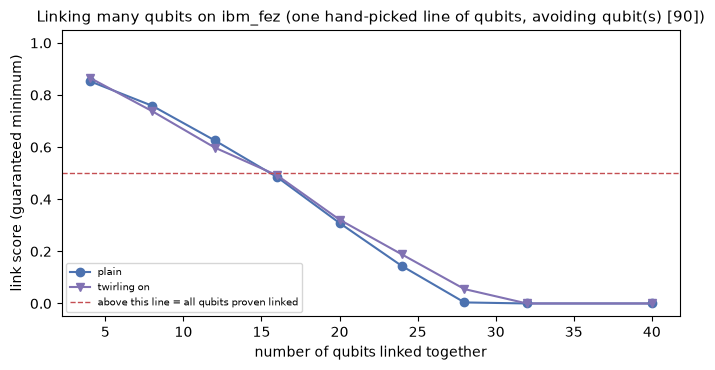
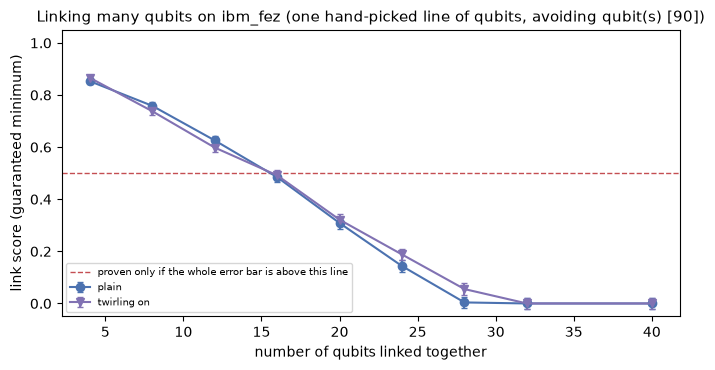
Lesson 7: same-qubit pairs, fit-aware sweep bound, one proof rule (ChatGPT review)
Run 1's 16/20/28-qubit pairs ran straight and sideways on different qubits (now
flagged NOT VALID from the job itself); 12-qubit proof stands. Phase-sweep bound
now accounts for the fitted phase (13% -> ~2% false proofs in simulation); the
16-qubit result survives at a 53.4% lower bound.

Changed region(s): [[0.0923, 0.7135, 0.4923, 0.8324]]

diff --git a/lessons/07_linking_many/ghz.py b/lessons/07_linking_many/ghz.py
@@ -92,7 +92,21 @@ def score_wobble(straight: dict, sideways: dict, n: int) -> float:
     return math.sqrt((a * (1 - a) + (1 - e * e) / 4) / shots)
 
 
-def analyze(counts: list[dict], sizes, label: str) -> list[float]:
+def is_proven(score: float, wobble: float) -> bool:
+    """The one proof rule used everywhere: above 50% by more than 2 chance wobbles."""
+    return score - 2 * wobble > 0.5
+
+
+def measured_qubits(circuit) -> tuple:
+    """Which physical qubit each classical bit was read from, in bit order."""
+    pairs = sorted((circuit.find_bit(i.clbits[0]).index, circuit.find_bit(i.qubits[0]).index)
+                   for i in circuit.data if i.operation.name == "measure")
+    return tuple(q for _, q in pairs)
+
+
+def analyze(counts: list[dict], sizes, label: str, invalid=frozenset()):
+    """Print and return (scores, wobbles). Sizes in `invalid` ran their straight and sideways
+    halves on different qubits, so they can't prove anything and are left out of the proof."""
     out, wob = [], []
     print(f"  {label}:")
     print("     qubits:          " + "".join(f"{n:>7d}" for n in sizes))
@@ -107,11 +121,12 @@ def analyze(counts: list[dict], sizes, label: str) -> list[float]:
     print("     sideways even-odd:" + "".join(f"{v:7.2f}" for v in eo))
     print("     link score:      " + "".join(f"{v:7.1%}" for v in out))
     print("     chance wobble ±: " + "".join(f"{v:7.1%}" for v in wob))
-    # "Proven" = above 50% by more than 2 wobbles, so chance alone would almost never do it.
-    proven = [n for n, s, w in zip(sizes, out, wob) if s - 2 * w > 0.5]
+    if invalid:
+        print(f"     NOT VALID (straight and sideways ran on different qubits): sizes {sorted(invalid)}")
+    proven = [n for n, s, w in zip(sizes, out, wob) if is_proven(s, w) and n not in invalid]
     print(f"     largest group proven linked (score above 50% by more than 2 wobbles): "
-          f"{max(proven) if proven else 'none'} qubits")
-    return out
+          f"{str(max(proven)) + ' qubits' if proven else 'none'}")
+    return out, wob
 
 
 def save_chart(series: dict, title: str, path: Path) -> None:
@@ -122,12 +137,13 @@ def save_chart(series: dict, title: str, path: Path) -> None:
     fig, ax = plt.subplots(figsize=(7, 3.8))
     styles = {"perfect simulator": ("#999999", "--", "none"), "noisy simulator": ("#55a868", "-", "^"),
               "plain": ("#4c72b0", "-", "o"), "twirling on": ("#8172b3", "-", "v")}
-    for name, (sizes, ys) in series.items():
+    for name, (sizes, ys, wobs) in series.items():
         color, ls, marker = styles.get(name, ("#dd8452", "-", "o"))
         ys = [max(y, 0.0) for y in ys]  # below 0 just means "proves nothing"; show as 0
-        ax.plot(sizes, ys, color=color, linestyle=ls, marker=marker, label=name)
+        ax.errorbar(sizes, ys, yerr=[2 * w for w in wobs], color=color, linestyle=ls,
+                    marker=marker, capsize=2, label=name)
     ax.axhline(0.5, color="#c44e52", linewidth=1, linestyle="--",
-               label="above this line = all qubits proven linked")
+               label="proven only if the whole error bar is above this line")
     ax.set_xlabel("number of qubits linked together")
     ax.set_ylabel("link score (guaranteed minimum)")
     ax.set_ylim(-0.05, 1.05)
@@ -163,9 +179,9 @@ def simulate() -> int:
     noisy = [res.get_counts(i) for i in range(len(isa))]
 
     print(f"Simulators, {SHOTS} shots each:")
-    ideal = analyze(perfect, SIZES, "perfect simulator")
-    rough = analyze(noisy, SIM_SIZES, "noisy simulator (copies ibm_marrakesh's published error rates)")
-    save_chart({"perfect simulator": (SIZES, ideal), "noisy simulator": (SIM_SIZES, rough)},
+    ideal, ideal_w = analyze(perfect, SIZES, "perfect simulator")
+    rough, rough_w = analyze(noisy, SIM_SIZES, "noisy simulator (copies ibm_marrakesh's published error rates)")
+    save_chart({"perfect simulator": (SIZES, ideal, ideal_w), "noisy simulator": (SIM_SIZES, rough, rough_w)},
                "Linking many qubits, on the simulators", HERE / "simulator_results.png")
 
     ok = (all(math.isclose(s, 1.0) for s in ideal)  # the circuit is right at every size
@@ -232,7 +248,18 @@ def submit_to_ibm(chain: bool, avoid=(), sizes=None, variants=("plain", "twirl")
     else:
         line = None
         pm = generate_preset_pass_manager(backend=backend, optimization_level=2)
-        isa = [pm.run(qc) for qc in circs]
+        isa = []
+        for straight, sideways in zip(circs[::2], circs[1::2]):
+            # Pin the sideways half to the straight half's qubits: the two halves only make a
+            # valid test together if they measure the same physical qubits.
+            st = pm.run(straight)
+            same = generate_preset_pass_manager(
+                backend=backend, optimization_level=2,
+                initial_layout=st.layout.initial_index_layout(filter_ancillas=True))
+            sw = same.run(sideways)
+            if set(measured_qubits(st)) != set(measured_qubits(sw)):
+                raise SystemExit(f"{straight.name}: straight and sideways landed on different qubits")
+            isa += [st, sw]
     for qc, c in zip(circs[::2], isa[::2]):
         two_q = sum(v for op, v in c.count_ops().items() if op in ("cz", "ecr", "cx"))
         print(f"  {qc.name:16s} {two_q:3d} two-qubit gates, depth {c.depth()}")
@@ -269,7 +296,11 @@ def fetch_jobs() -> int:
             print(f"The {key} job is {status}. Try again later.")
             return 0 if status not in ("ERROR", "CANCELLED") else 1
         counts = [r.data.c.get_counts() for r in job.result()]
-        results[label] = analyze(counts, sizes, label)
+        # Check from the job itself that each straight/sideways pair read the same qubits.
+        ran = [item.circuit for item in job.inputs["quantum_program"].items]
+        invalid = {n for i, n in enumerate(sizes)
+                   if set(measured_qubits(ran[2 * i])) != set(measured_qubits(ran[2 * i + 1]))}
+        results[label] = analyze(counts, sizes, label, invalid) + (invalid,)
     how = "one hand-picked line of qubits" if info.get("chain") else "qubits picked per size"
     print(f"(on {info['backend']}, {how}, {SHOTS} shots each)")
     name = ("hardware_chain_repeat_results.png" if info.get("chain") and "plain" not in info else
@@ -277,12 +308,18 @@ def fetch_jobs() -> int:
             "hardware_chain_results.png" if info.get("chain") else "hardware_results.png")
     if info.get("avoid"):
         how += f", avoiding qubit(s) {info['avoid']}"
-    save_chart({k: (sizes, v) for k, v in results.items()},
+    save_chart({k: (sizes, v[0], v[1]) for k, v in results.items()},
                f"Linking many qubits on {info['backend']} ({how})", HERE / name)
 
-    best = max(results.values(), key=lambda v: sum(s > 0.5 for s in v))
-    ok = best[0] > 0.5 and best[-1] < best[0]  # small groups link; bigger groups are harder
-    print(f"  need: the smallest group ({sizes[0]} qubits) scores above 50%, and the score falls as the group grows")
+    def proven_count(v):
+        scores, wobs, invalid = v
+        return sum(is_proven(s, w) and n not in invalid for n, s, w in zip(sizes, scores, wobs))
+
+    scores, wobs, invalid = max(results.values(), key=proven_count)
+    ok = (is_proven(scores[0], wobs[0]) and sizes[0] not in invalid  # smallest group proven
+          and scores[-1] < scores[0])                                 # bigger groups are harder
+    print(f"  need: the smallest group ({sizes[0]} qubits) proven linked (same rule as above), "
+          "and the score falls as the group grows")
     print("CHECK PASSED" if ok else "CHECK FAILED")
     return 0 if ok else 1
 

diff --git a/lessons/07_linking_many/parity_sweep.py b/lessons/07_linking_many/parity_sweep.py
@@ -10,7 +10,7 @@ to the nearest GHZ state, allowing any phase twist between all-0s and all-1s) of
     all-agree share.
 
   link quality = (all-agree share) / 2 + (size of the n-times wiggle) / 2
-  Above 50% (by more than 2 chance wobbles) proves all n qubits are linked as one group.
+  Proven when its cautious lower bound (see quality()) is above 50%.
 
     python lessons/07_linking_many/parity_sweep.py            # simulator check
     python lessons/07_linking_many/parity_sweep.py --ibm      # sizes 16 and 20, about 50 s
@@ -76,11 +76,17 @@ def quality(counts: list[dict], sizes) -> list[dict]:
         # The n-times wiggle's size: the matching "frequency component" of the sweep.
         wiggle = abs(sum(p * cmath.exp(-1j * n * phi) for p, phi in zip(parities, phis)) / len(phis))
         shots = sum(counts[i - 1].values())
-        # Chance wobble (one standard error) of the quality, from the shot counts.
-        wob = math.sqrt(a * (1 - a) / shots / 4
-                        + sum(1 - p * p for p in parities) / len(parities) / (2 * len(phis) * shots))
+        # A cautious lower bound. The wiggle's size is *fitted* (we pick the best-matching phase),
+        # so noise alone always produces some wiggle and a plain "estimate minus 2 wobbles" rule
+        # is too generous: in simulation it called an unlinked state "proven" about 13% of the
+        # time. Instead: take 2 wobbles off the all-agree share, and take 2 (generous) wobbles
+        # off the wiggle size, using a wobble that ignores how the angles share out the noise.
+        # In simulation this falsely proves an unlinked state at most about 2% of the time.
+        sd_a = math.sqrt(a * (1 - a) / shots)
+        sd_c = math.sqrt(sum((1 - p * p) / shots for p in parities)) / len(phis)
+        lower = (a - 2 * sd_a) / 2 + wiggle - 2 * sd_c
         res.append({"n": n, "agree": a, "wiggle": 2 * wiggle, "quality": a / 2 + wiggle,
-                    "wobble": wob, "parities": parities, "phis": phis})
+                    "lower": lower, "parities": parities, "phis": phis})
     return res
 
 
@@ -88,8 +94,8 @@ def report(res: list[dict], where: str) -> None:
     print(f"Phase sweep on {where}:")
     for r in res:
         print(f"   {r['n']:2d} qubits: all agree {r['agree']:.1%}, n-times wiggle size {r['wiggle']:.2f}"
-              f"  ->  link quality {r['quality']:.1%} ± {r['wobble']:.1%}"
-              f"  ({'proven linked' if r['quality'] - 2 * r['wobble'] > 0.5 else 'not proven'})")
+              f"  ->  link quality {r['quality']:.1%} (cautious lower bound {r['lower']:.1%})"
+              f"  ({'proven linked' if r['lower'] > 0.5 else 'not proven'})")
 
 
 def save_chart(res: list[dict], where: str, path: Path) -> None:
@@ -104,7 +110,9 @@ def save_chart(res: list[dict], where: str, path: Path) -> None:
         comp = sum(p * cmath.exp(-1j * r["n"] * phi) for p, phi in zip(r["parities"], r["phis"])) / len(r["phis"])
         ax.plot(fine, [2 * abs(comp) * math.cos(r["n"] * math.radians(d) + cmath.phase(comp)) for d in fine],
                 color="#c44e52", linewidth=1, label=f"{r['n']}-times wiggle")
-        ax.set_title(f"{r['n']} qubits: link quality {r['quality']:.0%}", fontsize=10)
+        verdict = "proven" if r["lower"] > 0.5 else "not proven"
+        ax.set_title(f"{r['n']} qubits: link quality {r['quality']:.0%} "
+                     f"(lower bound {r['lower']:.0%}, {verdict})", fontsize=9)
         ax.set_xlabel("turn angle (degrees)")
         ax.set_ylabel("sideways even - odd")
         ax.set_ylim(-1.05, 1.05)
@@ -140,13 +148,13 @@ def simulate() -> int:
     with_save.save_density_matrix()
     rho = DensityMatrix(noisy.run(with_save).result().data()["density_matrix"])
     exact = state_fidelity(rho, Statevector(bare))
-    print(f"  noisy 8-qubit test: sweep estimate {est['quality']:.1%} ± {est['wobble']:.1%}, "
+    print(f"  noisy 8-qubit test: sweep estimate {est['quality']:.1%} (lower bound {est['lower']:.1%}), "
           f"exact answer {exact:.1%}")
 
     ok = (all(abs(x["quality"] - 1) < 0.03 for x in res)
-          and abs(est["quality"] - exact) < 3 * est["wobble"] + 0.005)
-    print("  need: link quality within 3 points of 100% for every size on the perfect simulator, "
-          "and the noisy 8-qubit estimate within 3 wobbles of the exact answer")
+          and abs(est["quality"] - exact) < 0.01 and est["lower"] <= exact)
+    print("  need: link quality within 3 points of 100% for every size on the perfect simulator; "
+          "noisy 8-qubit estimate within 1 point of the exact answer, with the lower bound below it")
     print("CHECK PASSED" if ok else "CHECK FAILED")
     return 0 if ok else 1
 
@@ -190,6 +198,14 @@ def fetch() -> int:
     counts = [r.data.c.get_counts() for r in job.result()]
     res = quality(counts, sizes)
     report(res, info["backend"])
+    # Every circuit for one size must have read the same physical qubits, or the parts don't fit.
+    ran = [item.circuit for item in job.inputs["quantum_program"].items]
+    i = 0
+    for n in sizes:
+        block = ran[i:i + 1 + len(angles(n))]
+        i += len(block)
+        same = len({frozenset(L.measured_qubits(c)) for c in block}) == 1
+        print(f"   {n} qubits: all {len(block)} circuits read the same physical qubits: {'yes' if same else 'NO - not valid'}")
     # For comparison: ghz.py's cautious quick score from the same data (angle 0 = plain sideways).
     for r in res:
         a, e0 = r["agree"], r["parities"][0]

diff --git a/lessons/07_linking_many/README.md b/lessons/07_linking_many/README.md
@@ -75,8 +75,16 @@ minimum; "proven" means above 50% by more than 2 chance wobbles.
 
 ![Run 1](hardware_results.png)
 
-**12 qubits proven. 16 just short.** Below zero just means "this test proves nothing". The
-collapse at 20 (and 24 doing better than 20) suggested a bad qubit got pulled in somewhere.
+**12 qubits proven.** Below zero just means "this test proves nothing".
+
+**Caught in ChatGPT's review:** in this run the compiler placed each straight and sideways
+half separately. For 16, 20 and 28 qubits, the two halves landed on **different physical
+qubits**, so those three scores combine measurements of two different groups and mean nothing.
+That's the likely reason for the odd collapse at 20 (and 24 doing better than 20). We checked
+the saved jobs: at 12 qubits both halves read the same qubits, so the 12-qubit proof stands.
+The script now pins each sideways half to its straight half's qubits, and when it reads results
+back it checks the job and marks any mismatched size **NOT VALID**. The chart shows the scores
+as measured; treat 16, 20 and 28 as void.
 
 ### 2. One hand-picked line for every size (ibm_fez)
 
@@ -114,8 +122,8 @@ bad between calibrations.
 Back to the run-1 level: **12 proven, 16 just short**, now with nested groups.
 
 A repeat on **ibm_kingston** (twirling on, sizes 16–24) put 16 qubits at 51.6% ± 1.0%: above
-50%, but not by two wobbles. Three runs on two machines all put 16 qubits right on the edge of
-what the quick test can prove.
+50%, but not by two wobbles, so **nothing was proven** and that run fails its check. Runs 1, 4
+and this repeat all put 16 qubits right on the edge of what the quick test can prove.
 
 ![Repeat on ibm_kingston](hardware_chain_repeat_results.png)
 
@@ -124,12 +132,22 @@ what the quick test can prove.
 ![Phase sweep](parity_hardware_results.png)
 
 ```
-16 qubits: all agree 65.4%, 16-times wiggle size 0.45  ->  link quality 55.2% ± 0.6%  PROVEN
-20 qubits: all agree 52.3%, 20-times wiggle size 0.32  ->  link quality 42.0% ± 0.6%  not proven
+16 qubits: all agree 65.4%, 16-times wiggle size 0.45  ->  link quality 55.2%  (cautious lower bound 53.4%)  PROVEN
+20 qubits: all agree 52.3%, 20-times wiggle size 0.32  ->  link quality 42.0%  (cautious lower bound 40.2%)  not proven
+all circuits for each size read the same physical qubits: yes
 ```
 
-The dots follow the red 16-times wiggle closely. **All 16 qubits were linked as one group**,
-nearly 9 wobbles above the line. 20 qubits fell short.
+The dots follow the red 16-times wiggle closely. **All 16 qubits were linked as one group.**
+20 qubits fell short.
+
+**How sure is "proven"? (fixed after ChatGPT's review)** The wiggle's size is *fitted*: we
+pick whichever phase matches best, so random noise always produces some wiggle. Our first
+rule ("estimate minus 2 wobbles above 50%") didn't allow for that. In 20,000 simulated runs
+of an *unlinked* state sitting exactly on the 50% line, it said "proven" about 13% of the time.
+The script now uses a cautious lower bound: 2 wobbles off the all-agree share, plus 2 generous
+wobbles off the wiggle size. On the same simulated unlinked states, that falsely proves at
+most about 2% of the time, and it still proves our measured 16-qubit point every time.
+On the real data the bound is 53.4%, so **the 16-qubit result survives the stricter test.**
 
 The sweep's first angle (0°) is exactly the quick test's sideways look, so the same data also
 gives the cautious quick score: **39.9% ± 1.4% for 16 qubits**, nowhere near proving it. On
@@ -139,9 +157,9 @@ too, just not provably that way.
 
 ## What that means
 
-- **Final answer for tonight: 16 qubits proven linked as one group** by the thorough test on
-  ibm_marrakesh. The cautious quick test proved 12 in both fez runs that left out the bad
-  qubit (runs 1 and 4).
+- **Final answer: 16 qubits proven linked as one group** by the thorough test on
+  ibm_marrakesh, with a cautious lower bound of 53.4% after the stricter statistics. The
+  cautious quick test proved 12 in both fez runs that left out the bad qubit (runs 1 and 4).
 - **The careful maths mattered as much as the hardware.** The tempting simple formula would
   have claimed 20 on two of the runs. The honest cautious test proved 12, and the better
   measurement, on ibm_marrakesh, proved 16. On a portfolio piece, that's the difference
@@ -159,13 +177,36 @@ too, just not provably that way.
 
 ## How we know it works
 
-- `ghz.py` on the simulators: the perfect simulator must score 100% at every size up to 28
-  (the circuit is right), and the noisy copy of ibm_marrakesh must score lower at 12 qubits
-  than at 2 (noise grows with size). On hardware: the smallest group tried scores above 50%,
-  and the score falls as the group grows.
-- `parity_sweep.py` on the simulators: the perfect simulator must give 100% (± 3 points) for 16
-  and 20 qubits, and on a noisy 8-qubit state the sweep must land within 3 wobbles of the
-  exact answer (it gave 83.1% ± 0.2% against 83.4%).
+`ghz.py` on the simulators, 2026-11-27 (4000 shots each, summary of the script's output):
+
+```
+perfect simulator, 2 to 28 qubits: link score 100.0% at every size
+noisy simulator (copies ibm_marrakesh's published error rates):
+   qubits:       2      4      8     12
+   link score:  97.9%  95.2%  89.0%  83.5%
+CHECK PASSED
+```
+
+It passes only if the perfect simulator scores 100% at every size up to 28 (the circuit is
+right) and the noisy copy scores lower at 12 qubits than at 2 (noise grows with size).
+
+`parity_sweep.py` on the simulators, 2026-11-27 (2000 shots per circuit; 20,000 for the noisy test):
+
+```
+16 qubits: link quality 99.9% (cautious lower bound 99.3%)
+20 qubits: link quality 100.0% (cautious lower bound 99.5%)
+noisy 8-qubit test: sweep estimate 83.1% (lower bound 82.6%), exact answer 83.4%
+CHECK PASSED
+```
+
+It passes only if the perfect simulator gives 100% (± 3 points) for 16 and 20 qubits, and on a
+noisy 8-qubit state, where the exact answer can be computed directly, the estimate lands within
+1 point of it with the lower bound below it.
+
+On hardware, `ghz.py --job` passes only if the smallest group tried is proven linked by the same
+rule used everywhere else (above 50% by more than 2 wobbles, on the same physical qubits), and
+the score falls as the group grows. The chart draws each score with a ±2-wobble error bar; a
+size counts as proven only if its whole bar is above the 50% line.
 
 ## Run it on a real quantum computer yourself
 
